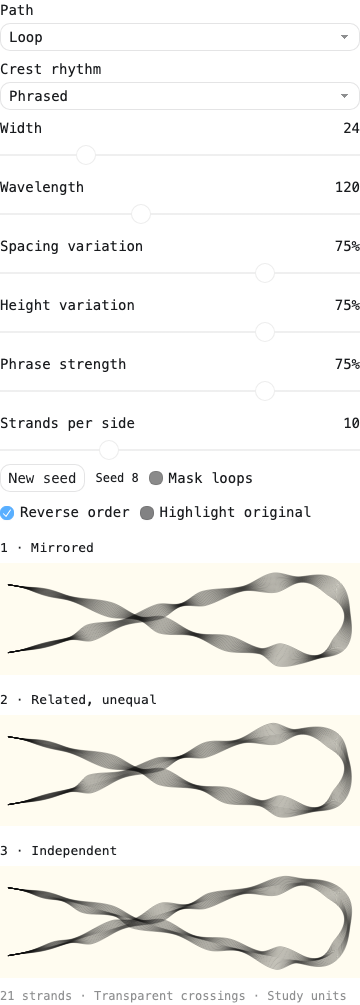
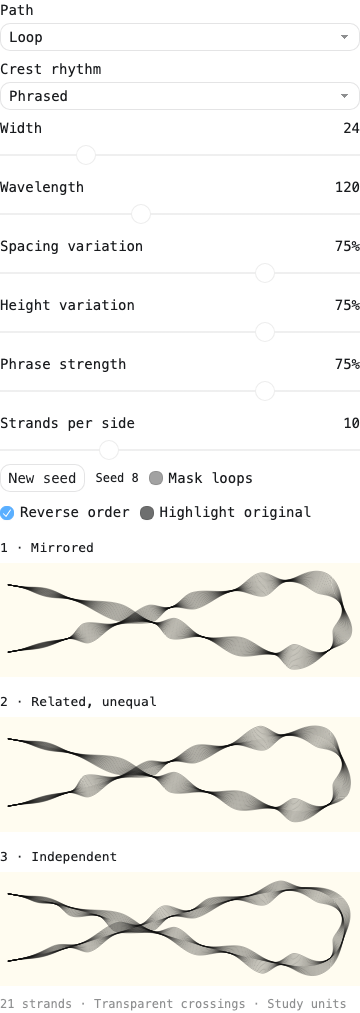
feat: expand upper crest variation range

diff --git a/docs/reviews/open-path-ribbon-2026-09-08/geometry.js b/docs/reviews/open-path-ribbon-2026-09-08/geometry.js
@@ -181,6 +181,13 @@
     const amount = key => clamp(+(opts[key] ?? opts.variation) || 0, 0, 1);
     const spacing = amount('spacingVariation'), height = amount('heightVariation');
     const phrasing = clamp(+(opts.phrasing ?? .7) || 0, 0, 1);
+    // Reserve the upper half for stronger contrast; the lower half is unchanged.
+    const spacingPush = smooth(clamp((spacing-.5)*2,0,1));
+    const heightPush = smooth(clamp((height-.5)*2,0,1));
+    const heightContrast = v => {
+      const power=1+2.5*heightPush, a=Math.pow(v,power), b=Math.pow(1-v,power);
+      return clamp(a/(a+b),.015,1);
+    };
     const wave = Math.max(1, +opts.wavelength || defaults.wavelength);
     const seed = (opts.seed >>> 0);
     const rhythm = rng(seed ^ 0xA341316C), heights = rng(seed ^ 0xC8013EA4);
@@ -202,12 +209,13 @@
       const position = phraseSize - phraseLeft--;
       const localSpan = .4 + rhythm() * 1.2;
       const phraseSpan = pace * motif[position % motif.length];
-      const span = mix(1, mix(localSpan, phraseSpan, phrasing), spacing);
+      const span = clamp(Math.pow(mix(1, mix(localSpan, phraseSpan, phrasing), spacing),
+        1+2.5*spacingPush),.18,3.5);
       const skew = (rhythm() - .5) * .5 * spacing;
       const freeHeight = .38 + heights() * .62;
       const hierarchy = phraseGain * (position === accent ? 1 : .46 + heights() * .3);
-      const peak = mix(.86, mix(freeHeight, hierarchy, phrasing), height);
-      const trough = mix(.21, .07 + heights() * .2, height);
+      const peak = heightContrast(mix(.86, mix(freeHeight, hierarchy, phrasing), height));
+      const trough = heightContrast(mix(.21, .07 + heights() * .2, height));
       events.push({span, skew, peak, trough});
     }
     const scale = Math.max(0, total) / events.reduce((sum,e) => sum+e.span, 0);

diff --git a/docs/reviews/open-path-ribbon-2026-09-08/check-study.py b/docs/reviews/open-path-ribbon-2026-09-08/check-study.py
@@ -69,6 +69,12 @@ def run():
                 page.emulate_media(color_scheme=theme)
                 assert page.evaluate('document.documentElement.scrollWidth <= innerWidth'), 'horizontal overflow'
                 page.locator('#ribbon-study').screenshot(path=str(HERE / f'preview-{size}-{theme}.png'))
+        page.set_viewport_size({'width':736,'height':1200})
+        page.emulate_media(color_scheme='light')
+        page.select_option('#ribbon-shape','straight')
+        for name in ['spacingVariation','heightVariation']:
+            page.locator('#ribbon-'+name).evaluate('(e)=>{e.value=100;e.dispatchEvent(new Event("input"));}')
+        page.locator('#ribbon-study').screenshot(path=str(HERE/'crest-maximum.png'))
         # Neutral labels: mechanisms are kept in review-map.json, not on sheets.
         page.set_viewport_size({'width':1140,'height':1400})
         page.emulate_media(color_scheme='light')

diff --git a/docs/reviews/open-path-ribbon-2026-09-08/CREST-STATUS.md b/docs/reviews/open-path-ribbon-2026-09-08/CREST-STATUS.md
@@ -51,3 +51,16 @@ geometry at arbitrary curvature or widths.
 
 Reproduce the new population with `.venv/bin/python
  docs/reviews/open-path-ribbon-2026-09-08/crest-evidence.py` (one shell line).
+
+## Stronger maximum variation
+
+Ian requested more dramatic maxima for both controls. Above 50%, spacing now
+progressively expands span ratios with a bounded power curve; height progressively
+increases contrast between small and large swells, with a positive floor. The lower
+half retains the preceding behaviour (compared numerically at 25% and 50%). For
+seed 7 at maximum, five lobe spans changed from roughly 90–150 to 37–215 study
+units, and peak heights from .42–.65 to .24–.90. Width remains an outer bound.
+`crest-maximum.png` records seed 8 at both maxima. The earlier population and
+second-eye report describe the preceding range, not this follow-up. All 24 crest
+configurations and browser checks passed again; the lead inspected the maximum
+render. Ready for Ian to check.
